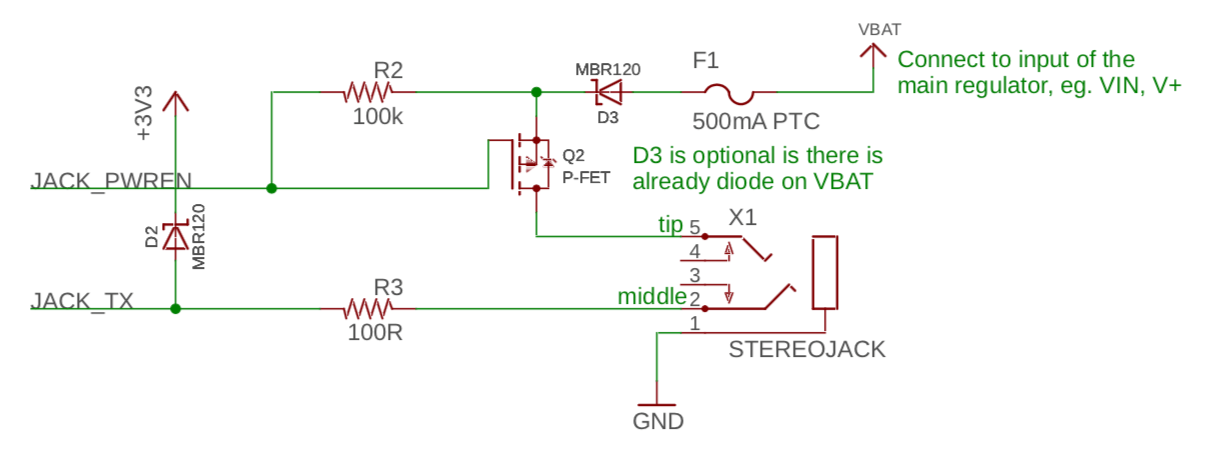
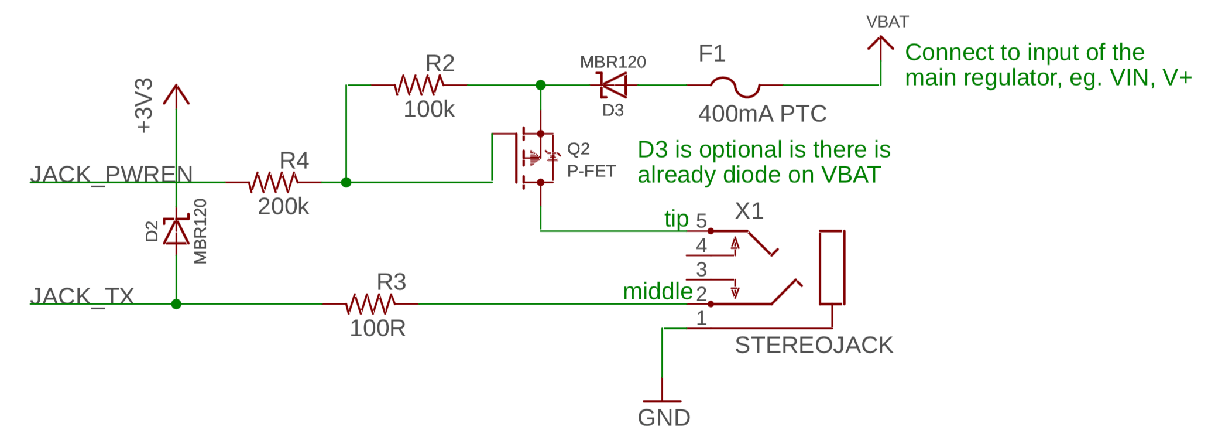
Docs: add warnings about preliminary hw spec

Changed region(s): [[0.0, 0.0302, 0.9801, 0.9977], [0.0919, 0.1814, 0.1531, 0.2721]]

diff --git a/docs/hardware/adding.md b/docs/hardware/adding.md
@@ -1,5 +1,11 @@
 # Adding your own hardware to Arcade
 
+## ~ hint
+**Warning**: this document is preliminary and is going to change.
+It's fine build prototypes according to it and experiment,
+but not to go to production.
+## ~
+
 Arcade features the following virtual device specification:
 
 * 160x120 pixel screen
@@ -150,6 +156,13 @@ Also note that this is not for JACDAC networking, for that see below.
 
 ### JACDAC
 
+## ~ hint
+**Warning**: JACDAC is under development now and is going to change.
+It's fine build prototypes according to this schematics,
+but not to go to production just yet.
+## ~
+
+
 [JACDAC](https://jacdac.org) is a protocol for networking over a single-wire
 connection with optional power delivery.
 It lets you play multiplayer games by connecting two (or more with a headphone splitter) Arcades
@@ -161,8 +174,6 @@ While the schematics use a 3.5mm jack connector with switches, you can also use
 one without switches, as they are not used.
 
 #### JACDAC with power delivery
-
-**The schematic below is broken, the MOSFET doesn't work.**
 
 The F1 fuse can be replaced with 500mA (or similar) current limiting circuit.
 
